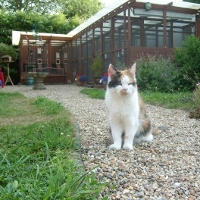
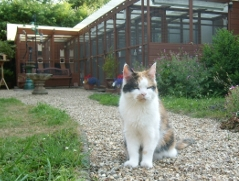
New idea for images, no longer need rows. Also re-cropped the one of Chloe

diff --git a/index.html b/index.html
@@ -5,67 +5,35 @@ title: Garden Cattery
 
 <div class="row-fluid small-img-row">
     <div class="span5">
-		<div>
-			<h4><font color="#679e87"><b><i>Welcome to Garden Cattery</i></b></font></h4>
-			<p>
-				Welcome to Garden Cattery, home to myself Susan and husband Shane along with Chloe our own cat.  The cattery is situated in our back garden and is perfect for us to be able to keep an eye on all our boarders whilst they play, snooze or just watch the world go by.  The pens are in a courtyard setting with bird feeders and a water feature to also keep the cats amused and interested during their stay.
-			</p>
-		</div>
-		<div class="row-fluid small-img-row">
-			<div class="span4">
+		<h4><font color="#679e87"><b><i>Welcome to Garden Cattery</i></b></font></h4>
+		<p>
+			Welcome to Garden Cattery, home to myself Susan and husband Shane along with Chloe our own cat.  The cattery is situated in our back garden and is perfect for us to be able to keep an eye on all our boarders whilst they play, snooze or just watch the world go by.  The pens are in a courtyard setting with bird feeders and a water feature to also keep the cats amused and interested during their stay.
+		</p>
+		<p>
+			The cattery has been built to the Feline Advisory Bureau Guidelines and the comfort and wellbeing of our boarding cats is paramount to us.  
+			<div align="left">
 				<img src="images/02_chloeCattery.JPG" alt="" vspace="10"> 
 				<br>
 				<p>
 					<font color="#679e87"><center><i>Our cat chloe</i></center></font>
 				</p>
 			</div>
-			<div class="span8">
-				<p>
-					The cattery has been built to the Feline Advisory Bureau Guidelines and the comfort and wellbeing of our boarding cats is paramount to us.  We know all cats are different and react differently to being boarded and have their own unique characters, so we like to get to know them (on their terms of course!) so they get the individual attention they need whilst away from their normal environment.  Our standards of care, security and hygiene will ensure the best environment for your cat.
-				</p>
-			</div>          
-		</div>				
-		<div class="row-fluid small-img-row">
-			<div class="span6">
-				<p>
-					When booking you will be asked about your cat’s health, what their favourite food is, and their likes and dislikes so that we can ensure they have a happy and health stay with us.   
-				</p>
-				<p>
-					We are lifelong cat lovers and your cat(s) will be looked after as though they are our own until you come to collect them.  
-				</p>
-			</div>
-			<div class="span6">
-				<img src="images/03_catteryEndGarden.JPG" alt="" vspace="10"> 
-				<br>
-				<p>
-					<font color="#679e87"><center><i>The cattery is at the bottom of our garden</i></center></font>
-				</p>
-			</div>		
-		</div>
+			We know all cats are different and react differently to being boarded and have their own unique characters, so we like to get to know them (on their terms of course!) so they get the individual attention they need whilst away from their normal environment.  Our standards of care, security and hygiene will ensure the best environment for your cat.
+		</p>
+		<p>
+			When booking you will be asked about your cat’s health, what their favourite food is, and their likes and dislikes so that we can ensure they have a happy and health stay with us.   
+		</p>
+		<p>
+			We are lifelong cat lovers and your cat(s) will be looked after as though they are our own until you come to collect them.  
+		</p>
+		
+		<img src="images/03_catteryEndGarden.JPG" alt="" vspace="10"> 
+		<!--<br>
+		<p>
+			<font color="#679e87"><center><i>The cattery is at the bottom of our garden</i></center></font>
+		</p>-->
 	</div>
     <div class="span7">
 		<img src="images/01_mainCattery.JPG" alt="Garden Cattery"> 
 	</div>    
 </div> 
-<!--<div class="row-fluid small-img-row">
-    <div class="span5">
-		<div>
-			<h4><font color="#679e87"><b><i>Welcome to Garden Cattery</i></b></font></h4>
-			<p>
-				Welcome to Garden Cattery, home to myself Susan and husband Shane along with Chloe our own cat.  The cattery is situated in our back garden and is perfect for us to be able to keep an eye on all our boarders whilst they play, snooze or just watch the world go by.  The pens are in a courtyard setting with bird feeders and a water feature to also keep the cats amused and interested during their stay.
-			</p>
-			<p>
-				The cattery has been built to the Feline Advisory Bureau Guidelines and the comfort and wellbeing of our boarding cats is paramount to us.  We know all cats are different and react differently to being boarded and have their own unique characters, so we like to get to know them <img src="images/02_chloeCattery.JPG" alt="" align="left" hspace="10" vspace="10">(on their terms of course!) so they get the individual attention they need whilst away from their normal environment.  Our standards of care, security and hygiene will ensure the best environment for your cat.
-			</p>
-			<p>
-				When booking you will be asked about your cat’s health, what their favourite food is, <img src="images/03_catteryEndGarden.JPG" alt="" align="right" hspace="10" vspace="10">and their likes and dislikes so that we can ensure they have a happy and health stay with us.   
-			</p>
-			<p>
-				We are lifelong cat lovers and your cat(s) will be looked after as though they are our own until you come to collect them.  
-			</p>
-		</div>
-	</div>
-    <div class="span7">
-		<img src="images/01_mainCattery.JPG" alt="Garden Cattery"> 
-	</div>    
-</div> -->
